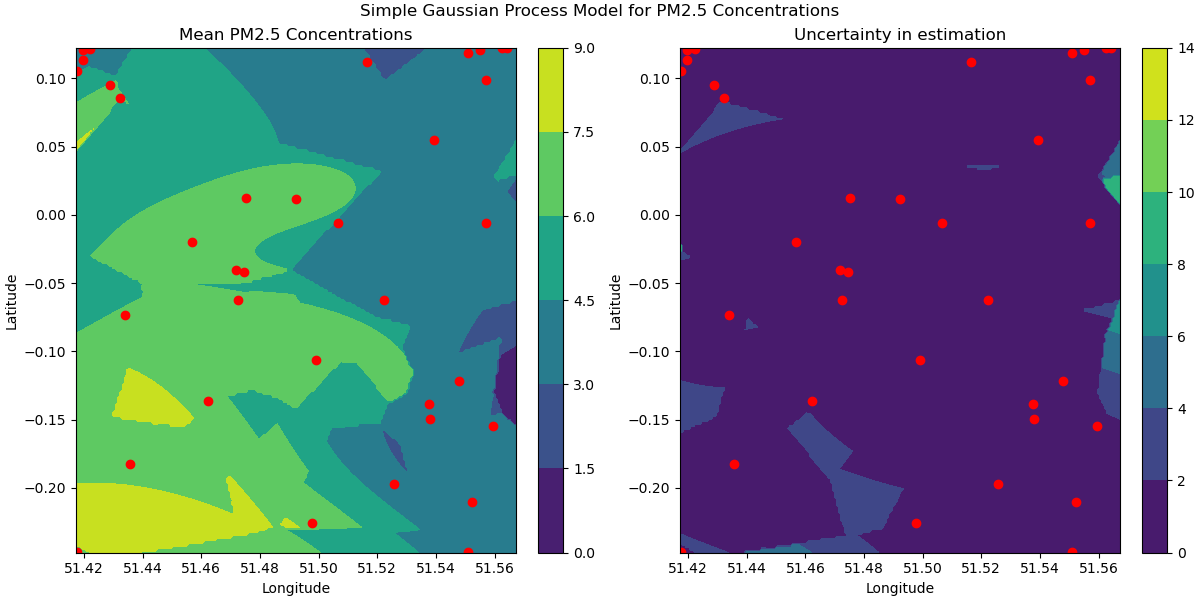
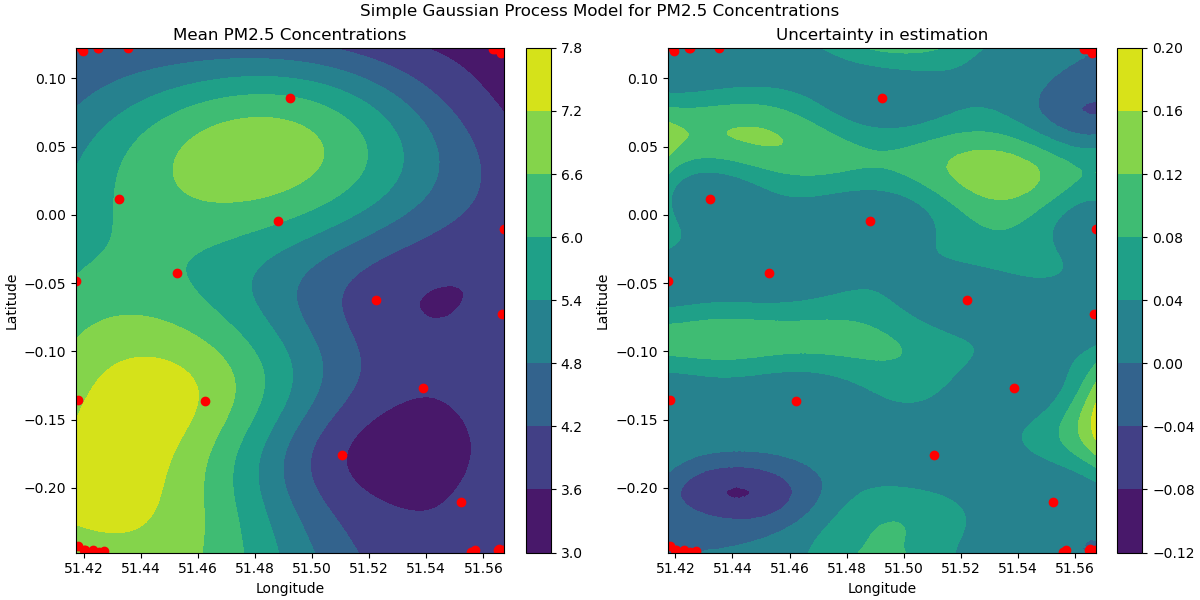
:sparkles: handled standardising of model output

diff --git a/gaussian_process.py b/gaussian_process.py
@@ -3,6 +3,7 @@ from pathlib import Path
 from typing import Literal
 
 import GPy
+from GPy.util.normalizer import Standardize
 import click
 import matplotlib
 import matplotlib.pyplot as plt
@@ -29,7 +30,7 @@ from dataset import get_cached_openweather_data
 def get_model(train_x: npt.ArrayLike, train_y: npt.ArrayLike):
     num_input_parameters = train_x.shape[1]
     kernel = GPy.kern.Matern52(num_input_parameters)
-    model_gpy = GPRegression(train_x, train_y, kernel)
+    model_gpy = GPRegression(train_x, train_y, kernel, normalizer=Standardize())
     return GPyModelWrapper(model_gpy)
 
 
